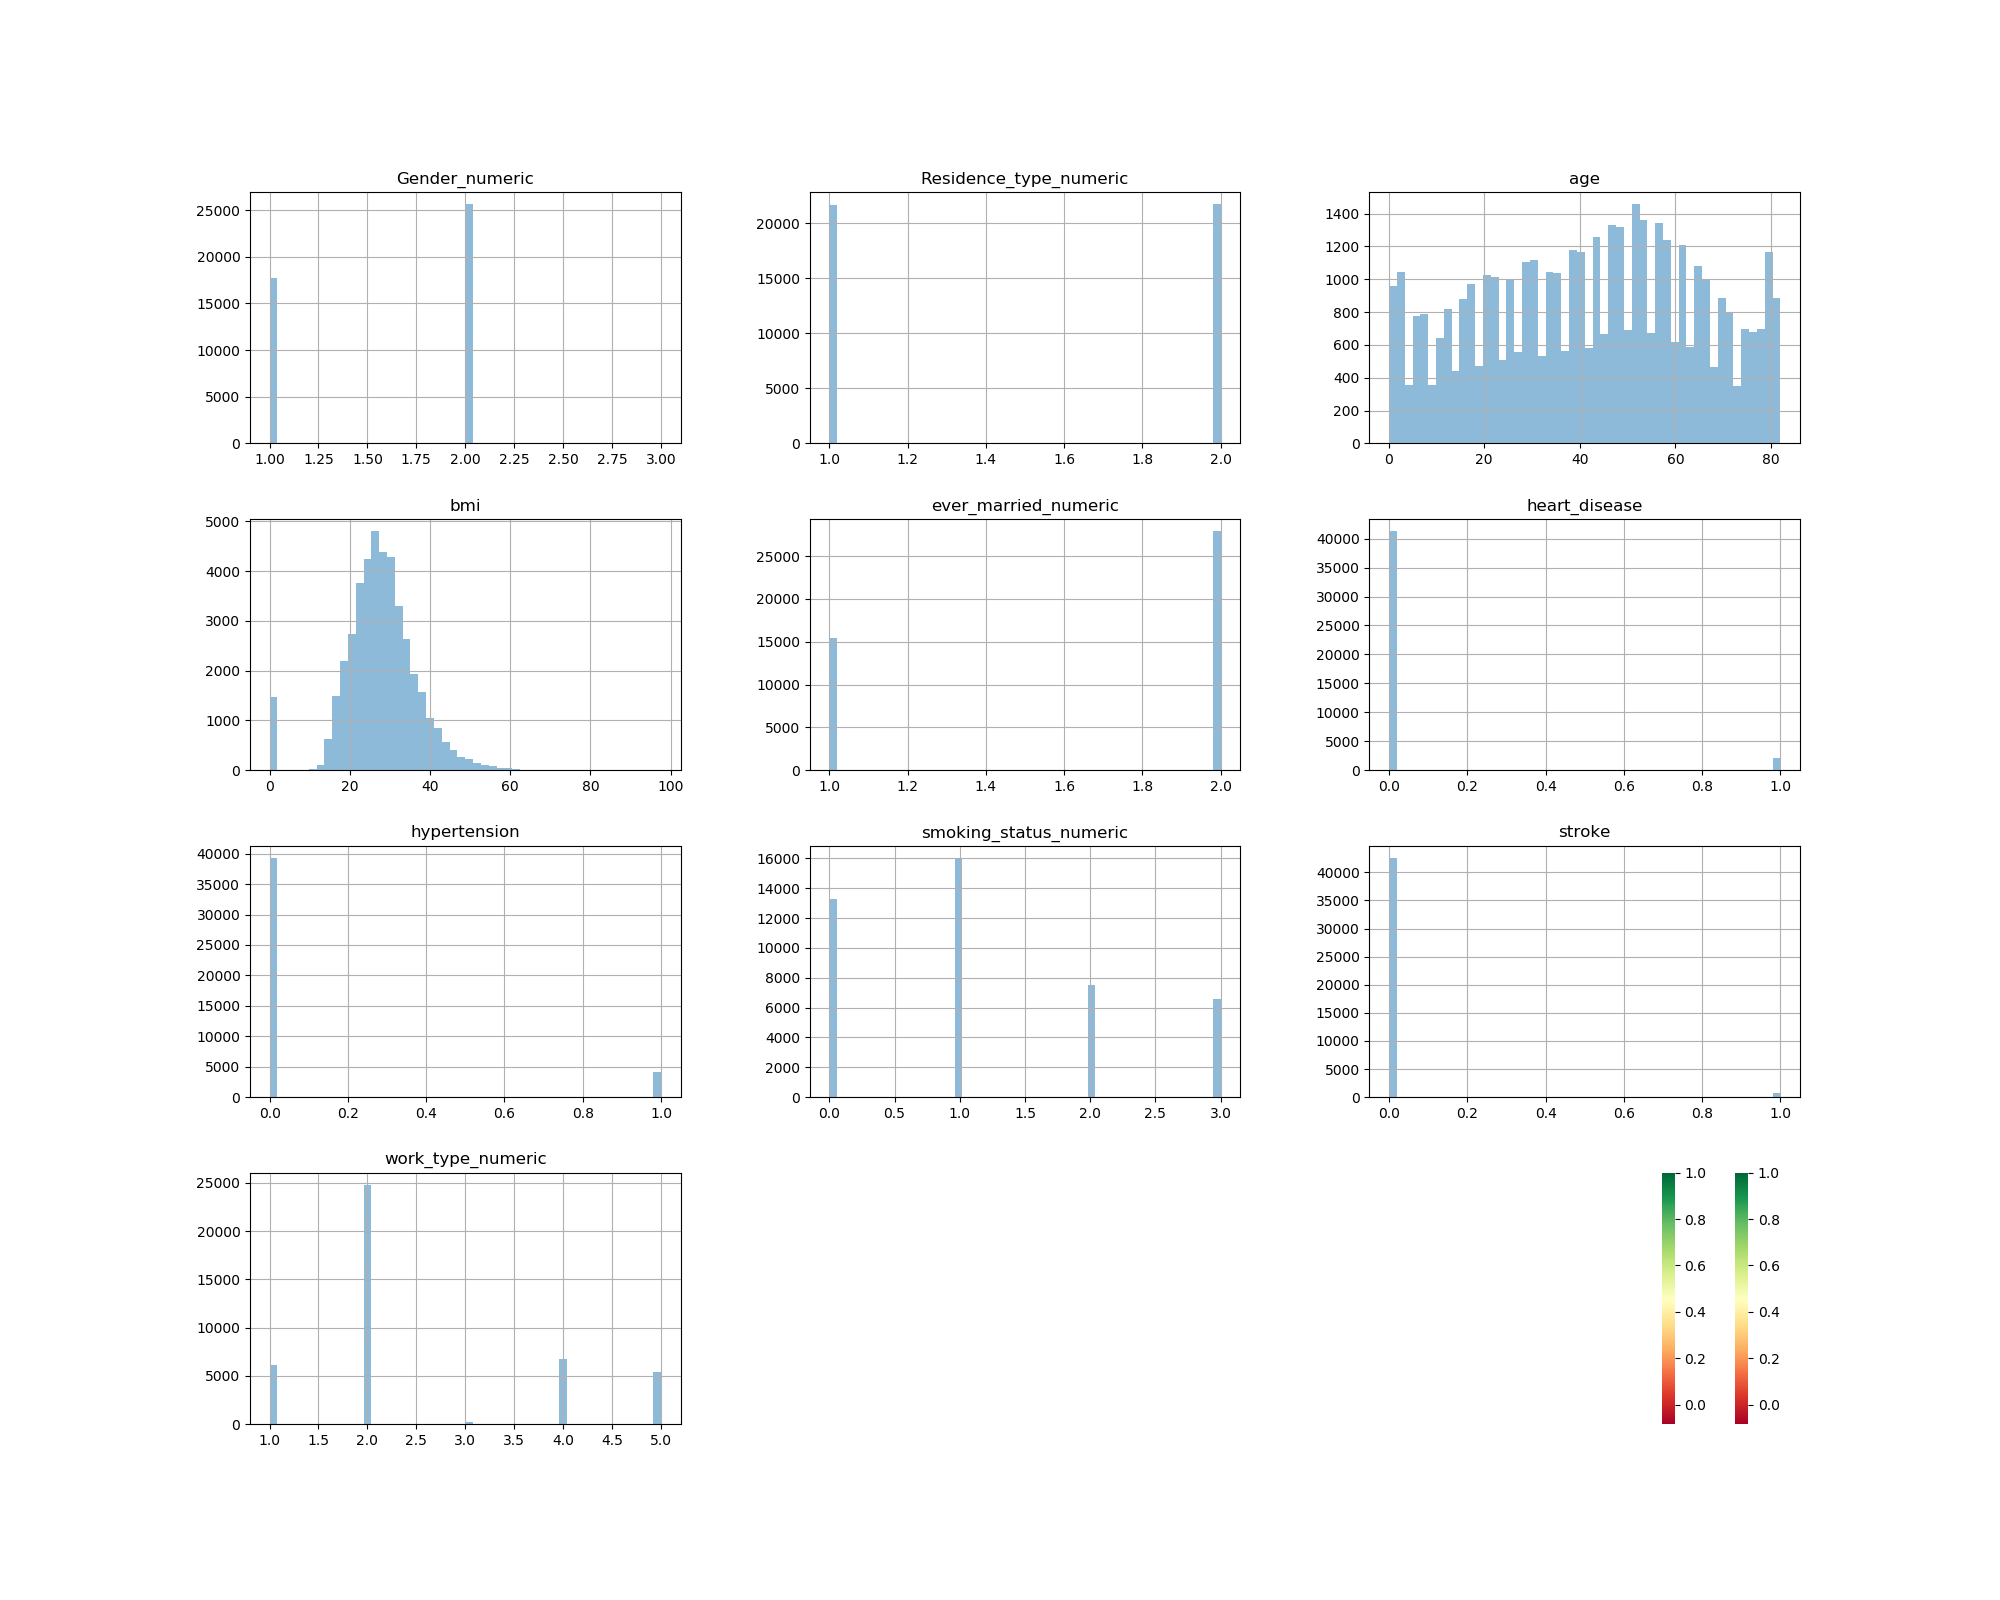
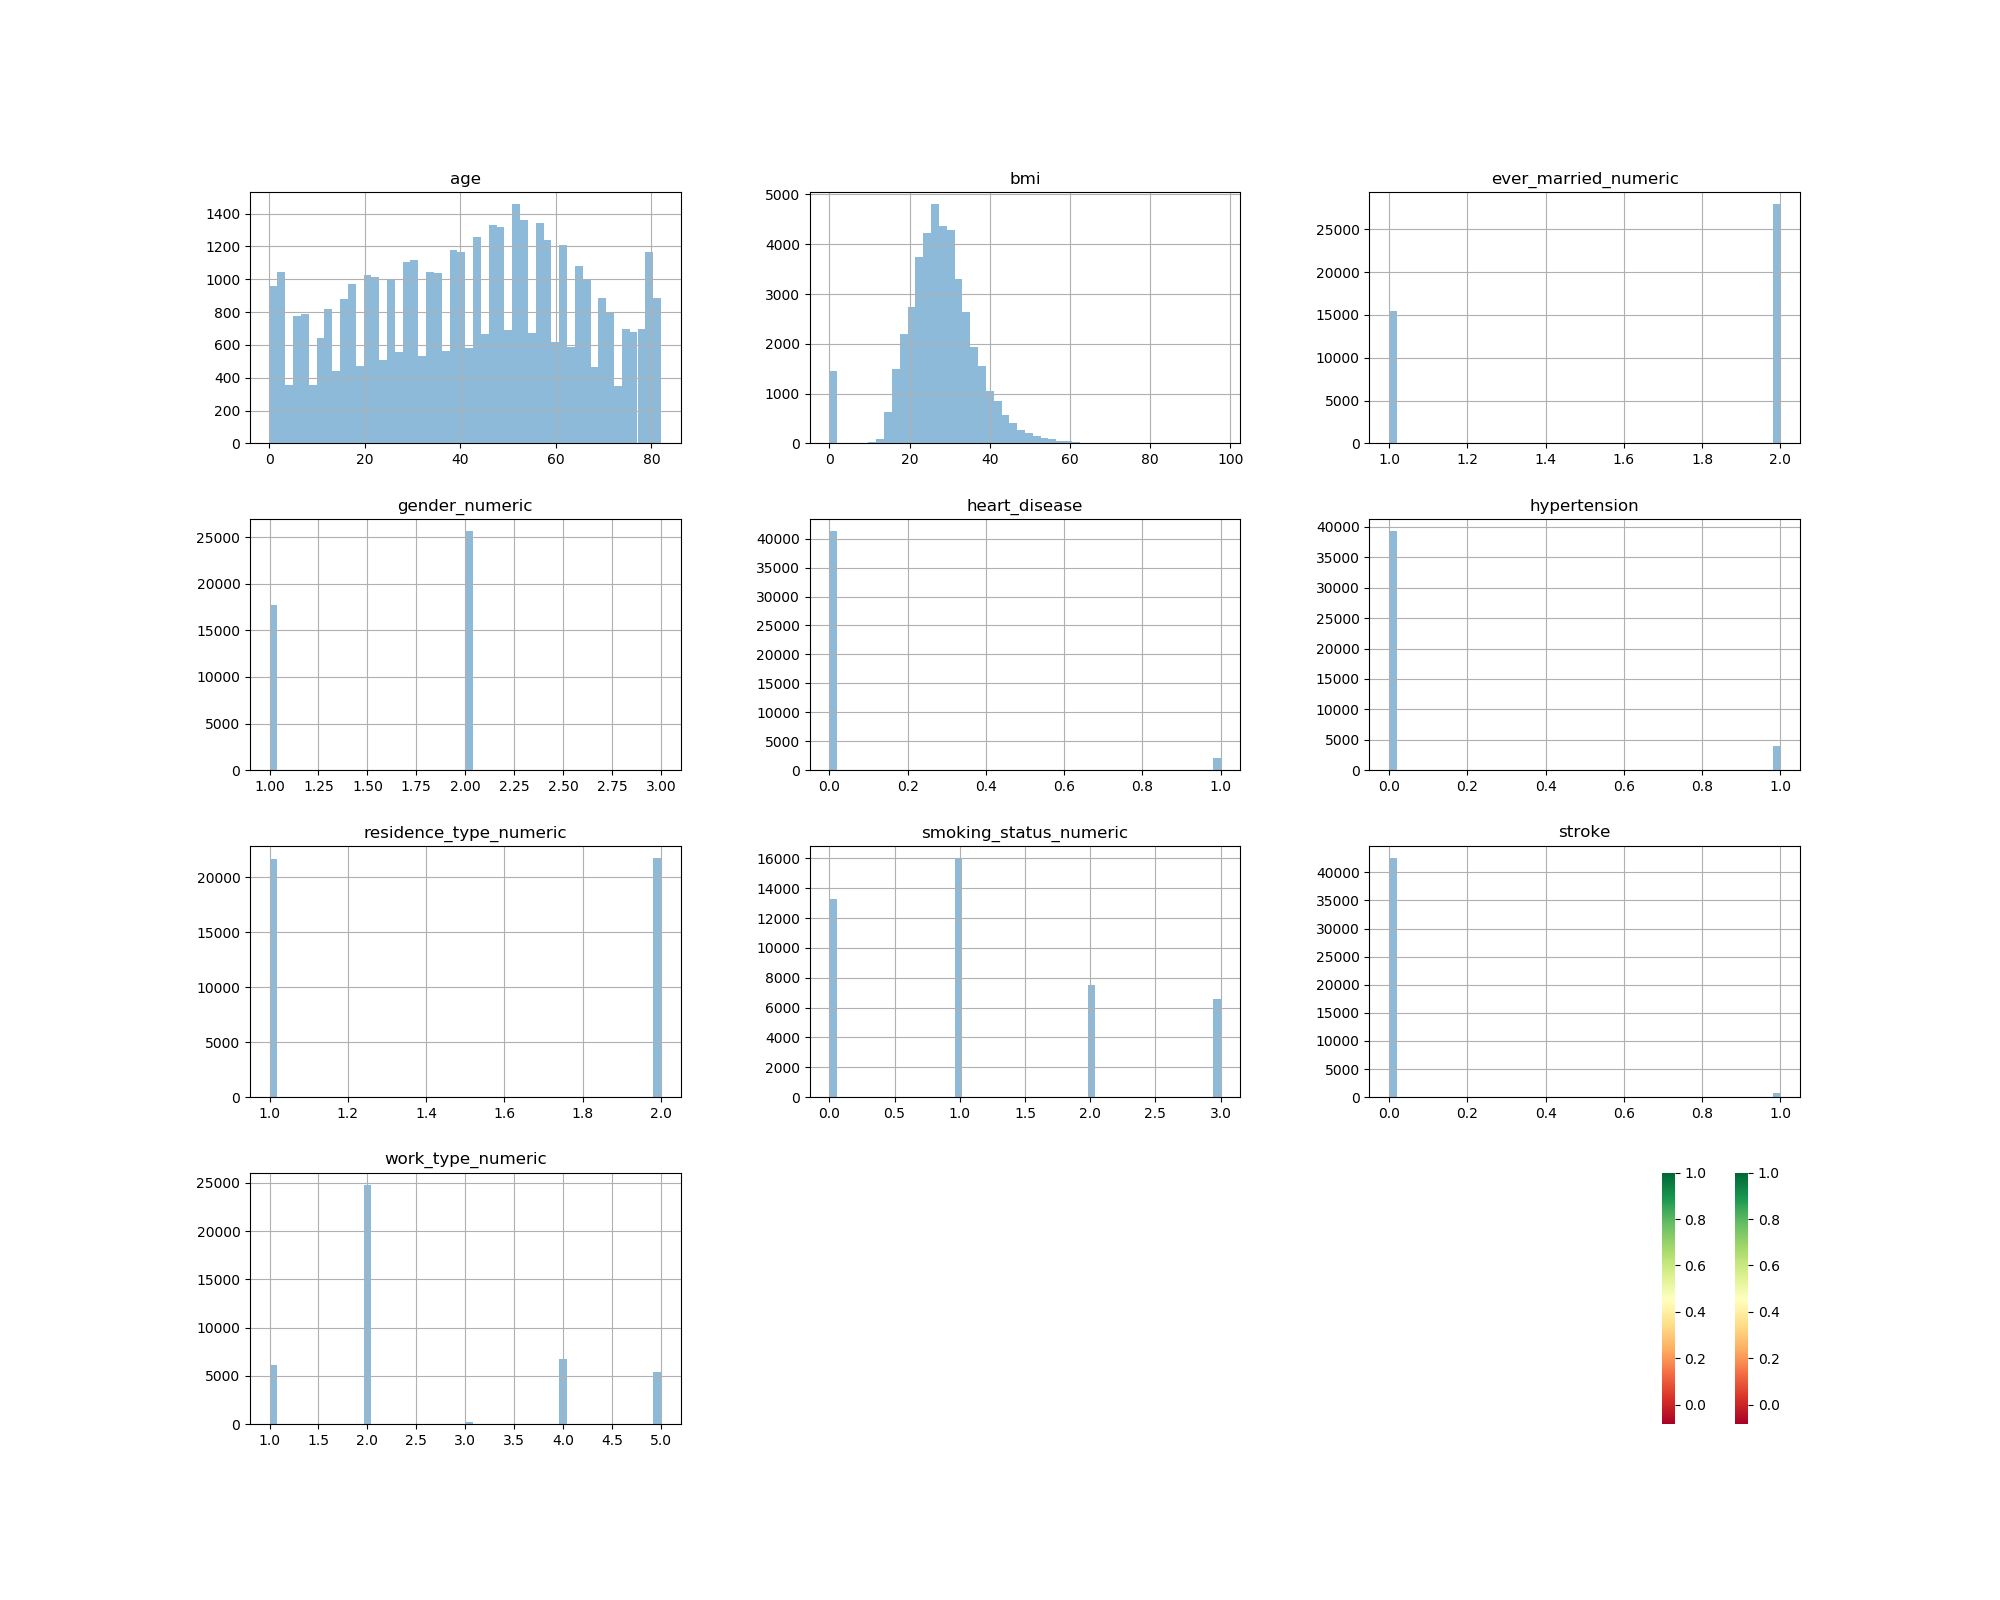
cleanup

diff --git a/mlPredictor/predictionEngine.py b/mlPredictor/predictionEngine.py
@@ -44,9 +44,9 @@ import time
 # Load Train and Test CSV
 def train_model():
 
-	headerNames = ["id","Gender","age","hypertension","heart_disease","ever_married","work_type",
-               "Residence_type","avg_glucose_level","bmi","smoking_status","stroke"]
-	prefix = "./dataset/"
+	headerNames = ["id","gender","age","hypertension","heart_disease","ever_married","work_type",
+               "residence_type","avg_glucose_level","bmi","smoking_status","stroke"]
+	prefix = "../dataset/"
 
 	# ID cannot be used for prediction 
 	# hence setting index_col = 0 takes care of removing ID field from dataset in both train and test dataframes.
@@ -70,20 +70,20 @@ def train_model():
 	# In[5]:
 
 
-	# Gender, Age, BMI to heart rate data
-	headerNames = ["Gender","Age","Height","Weight","HR_max"]
-	prefix = "./dataset/"
+	# gender, age, BMI to heart rate data
+	headerNames = ["gender","age","height","weight","hr_max"]
+	
 
 	# ID cannot be used for prediction 
 	# hence setting index_col = 0 takes care of removing ID field from dataset in both train and test dataframes.
 	hrratetraindf = pd.read_csv(prefix + "demog-max-hrrate.csv", header=None, delim_whitespace=False,  names=headerNames, ) #index_col=0, 
-	hrratetraindf['Weight'] = hrratetraindf['Weight'].astype(float)
+	hrratetraindf['weight'] = hrratetraindf['weight'].astype(float)
 
-	hrratetraindf['Height'] = hrratetraindf['Height'].astype(float)
-	hrratetraindf.loc[hrratetraindf['Height'] > 10, 'Height'] = hrratetraindf['Height']/100
+	hrratetraindf['height'] = hrratetraindf['height'].astype(float)
+	hrratetraindf.loc[hrratetraindf['height'] > 10, 'height'] = hrratetraindf['height']/100
 
 
-	hrratetraindf['BMI'] = hrratetraindf['Weight'] / (hrratetraindf['Height'] * hrratetraindf['Height'])
+	hrratetraindf['BMI'] = hrratetraindf['weight'] / (hrratetraindf['height'] * hrratetraindf['height'])
 
 	print(hrratetraindf.shape)
 	hrratetraindf.head(100)
@@ -93,10 +93,10 @@ def train_model():
 
 
 	# Set of Unique Values for stroke - it is a binary classification problem
-	print(traindf['Gender'].unique())
+	print(traindf['gender'].unique())
 	print(traindf['ever_married'].unique())
 	print(traindf['work_type'].unique())
-	print(traindf['Residence_type'].unique())
+	print(traindf['residence_type'].unique())
 	print(traindf['smoking_status'].unique())
 	print(traindf['stroke'].unique())
 
@@ -137,22 +137,22 @@ def train_model():
 	# In[10]:
 
 
-	# Feature Engineering - Convert Categorical Data to Numeric > Gender
-	# convert Gender to numeric
+	# Feature Engineering - Convert Categorical Data to Numeric > gender
+	# convert gender to numeric
 
 	#Train Data
-	traindf['Gender_numeric']  = 0.0 # default value
-	traindf.loc[traindf['Gender'] == 'Male', 'Gender_numeric'] = 1.0
-	traindf.loc[traindf['Gender'] == 'Female', 'Gender_numeric'] = 2.0
-	traindf.loc[traindf['Gender'] == 'Other', 'Gender_numeric'] = 3.0
-	traindf = traindf.drop('Gender', axis=1)
+	traindf['gender_numeric']  = 0.0 # default value
+	traindf.loc[traindf['gender'] == 'Male', 'gender_numeric'] = 1.0
+	traindf.loc[traindf['gender'] == 'Female', 'gender_numeric'] = 2.0
+	traindf.loc[traindf['gender'] == 'Other', 'gender_numeric'] = 3.0
+	traindf = traindf.drop('gender', axis=1)
 
 	#Test Data
-	testdf['Gender_numeric']  = 0.0 # default value
-	testdf.loc[testdf['Gender'] == 'Male', 'Gender_numeric'] = 1.0
-	testdf.loc[testdf['Gender'] == 'Female', 'Gender_numeric'] = 2.0
-	testdf.loc[testdf['Gender'] == 'Other', 'Gender_numeric'] = 3.0
-	testdf = testdf.drop('Gender', axis=1)
+	testdf['gender_numeric']  = 0.0 # default value
+	testdf.loc[testdf['gender'] == 'Male', 'gender_numeric'] = 1.0
+	testdf.loc[testdf['gender'] == 'Female', 'gender_numeric'] = 2.0
+	testdf.loc[testdf['gender'] == 'Other', 'gender_numeric'] = 3.0
+	testdf = testdf.drop('gender', axis=1)
 
 
 	# In[11]:
@@ -203,21 +203,21 @@ def train_model():
 	# In[13]:
 
 
-	# Feature Engineering - Convert Categorical Data to Numeric > Residence_type
-	# convert Residence_type to numeric
+	# Feature Engineering - Convert Categorical Data to Numeric > residence_type
+	# convert residence_type to numeric
 	#['Rural' 'Urban']
 
 	#Train Data
-	traindf['Residence_type_numeric']  = 0.0 # default value
-	traindf.loc[traindf['Residence_type'] == 'Rural', 'Residence_type_numeric'] = 1.0
-	traindf.loc[traindf['Residence_type'] == 'Urban', 'Residence_type_numeric'] = 2.0
-	traindf = traindf.drop('Residence_type', axis=1)
+	traindf['residence_type_numeric']  = 0.0 # default value
+	traindf.loc[traindf['residence_type'] == 'Rural', 'residence_type_numeric'] = 1.0
+	traindf.loc[traindf['residence_type'] == 'Urban', 'residence_type_numeric'] = 2.0
+	traindf = traindf.drop('residence_type', axis=1)
 
 	#Test Data
-	testdf['Residence_type_numeric']  = 0.0 # default value
-	testdf.loc[testdf['Residence_type'] == 'Rural', 'Residence_type_numeric'] = 1.0
-	testdf.loc[testdf['Residence_type'] == 'Urban', 'Residence_type_numeric'] = 2.0
-	testdf = testdf.drop('Residence_type', axis=1)
+	testdf['residence_type_numeric']  = 0.0 # default value
+	testdf.loc[testdf['residence_type'] == 'Rural', 'residence_type_numeric'] = 1.0
+	testdf.loc[testdf['residence_type'] == 'Urban', 'residence_type_numeric'] = 2.0
+	testdf = testdf.drop('residence_type', axis=1)
 
 
 	# In[14]:
@@ -288,11 +288,11 @@ def train_model():
 
 	#drop based on very low positive or negative correlation
 
-	#traindf = traindf.drop('Residence_type_numeric', axis=1)
-	#testdf = testdf.drop('Residence_type_numeric', axis=1)
+	#traindf = traindf.drop('residence_type_numeric', axis=1)
+	#testdf = testdf.drop('residence_type_numeric', axis=1)
 
-	#traindf = traindf.drop('Gender_numeric', axis=1)
-	#testdf = testdf.drop('Gender_numeric', axis=1)
+	#traindf = traindf.drop('gender_numeric', axis=1)
+	#testdf = testdf.drop('gender_numeric', axis=1)
 
 
 	#traindf = traindf.drop('smoking_status_numeric', axis=1)
@@ -388,21 +388,21 @@ def train_model():
 
 	## Prediction model 
 	print(hrratetraindf.columns)
-	hr_train_features = hrratetraindf.loc[:, hrratetraindf.columns != 'HR_max']
-	hr_train_features= hr_train_features.drop('Height',axis=1)
-	hr_train_features= hr_train_features.drop('Weight',axis=1)
+	hr_train_features = hrratetraindf.loc[:, hrratetraindf.columns != 'hr_max']
+	hr_train_features= hr_train_features.drop('height',axis=1)
+	hr_train_features= hr_train_features.drop('weight',axis=1)
 
-	hr_train_features['Gender'] = hr_train_features['Gender'].astype(float)
-	hr_train_features['Age'] = hr_train_features['Age'].astype(float)
+	hr_train_features['gender'] = hr_train_features['gender'].astype(float)
+	hr_train_features['age'] = hr_train_features['age'].astype(float)
 
 	print(hr_train_features.columns)
 	print(hr_train_features.head(10))
 	# extract label from training set - Approved
-	hr_train_label = hrratetraindf.loc[:, hrratetraindf.columns == 'HR_max']
-	hr_train_label['HR_max'] = hr_train_label['HR_max'].astype(float)
+	hr_train_label = hrratetraindf.loc[:, hrratetraindf.columns == 'hr_max']
+	hr_train_label['hr_max'] = hr_train_label['hr_max'].astype(float)
 	print(hr_train_label.columns)
 	0
-	hr_train_label['HR_max'].fillna(hr_train_label['HR_max'].dropna().mean(), inplace=True)
+	hr_train_label['hr_max'].fillna(hr_train_label['hr_max'].dropna().mean(), inplace=True)
 
 	# check for null valued columns
 	print("Train Data -any null ?? ")
@@ -440,7 +440,7 @@ def train_model():
 
 	hr_train_features= hr_train_features.drop('work_type_numeric', axis=1)
 	hr_train_features= hr_train_features.drop('smoking_status_numeric', axis=1)
-	hr_train_features= hr_train_features.drop('Residence_type_numeric', axis=1)
+	hr_train_features= hr_train_features.drop('residence_type_numeric', axis=1)
 
 	print("hr train ",hr_train_features.columns)
 
@@ -464,7 +464,7 @@ def train_model():
 	hr_test_features= hr_test_features.drop('ever_married_numeric', axis=1)
 	hr_test_features= hr_test_features.drop('work_type_numeric', axis=1)
 	hr_test_features= hr_test_features.drop('smoking_status_numeric', axis=1)
-	hr_test_features= hr_test_features.drop('Residence_type_numeric', axis=1)
+	hr_test_features= hr_test_features.drop('residence_type_numeric', axis=1)
 
 
 
@@ -546,9 +546,9 @@ def predict(model, input_dict):
 	#outputdf.to_csv("output/output_rf"+str(time.time())+".csv", sep=",", index=False)
 
 if __name__=="__main__":
-	'''input ={'age':'30.0', 'hypertension': '0.0', 'heart_disease':'0.0', 'bmi':'26.5', 'Gender_numeric':1.0,
-   	'ever_married_numeric':'1.0', 'work_type_numeric':'1.0', 'Residence_type_numeric':'1.0',
+	'''input ={'age':'30.0', 'hypertension': '0.0', 'heart_disease':'0.0', 'bmi':'26.5', 'gender_numeric':1.0,
+   	'ever_married_numeric':'1.0', 'work_type_numeric':'1.0', 'residence_type_numeric':'1.0',
    	'smoking_status_numeric':'0.0', 'hr':'120.4'}'''
-	input = {'age':30.0, 'hypertension': 0.0, 'heart_disease':0.0, 'bmi':26.5, 'Gender_numeric':1.0,'ever_married_numeric':1.0, 'work_type_numeric':1.0, 'Residence_type_numeric':1.0,'smoking_status_numeric':0.0, 'hr':120.4}
+	input = {'age':30.0, 'hypertension': 0.0, 'heart_disease':0.0, 'bmi':26.5, 'gender_numeric':1.0,'ever_married_numeric':1.0, 'work_type_numeric':1.0, 'residence_type_numeric':1.0,'smoking_status_numeric':0.0, 'hr':120.4}
 	model = train_model()
 	predict(model, input)
